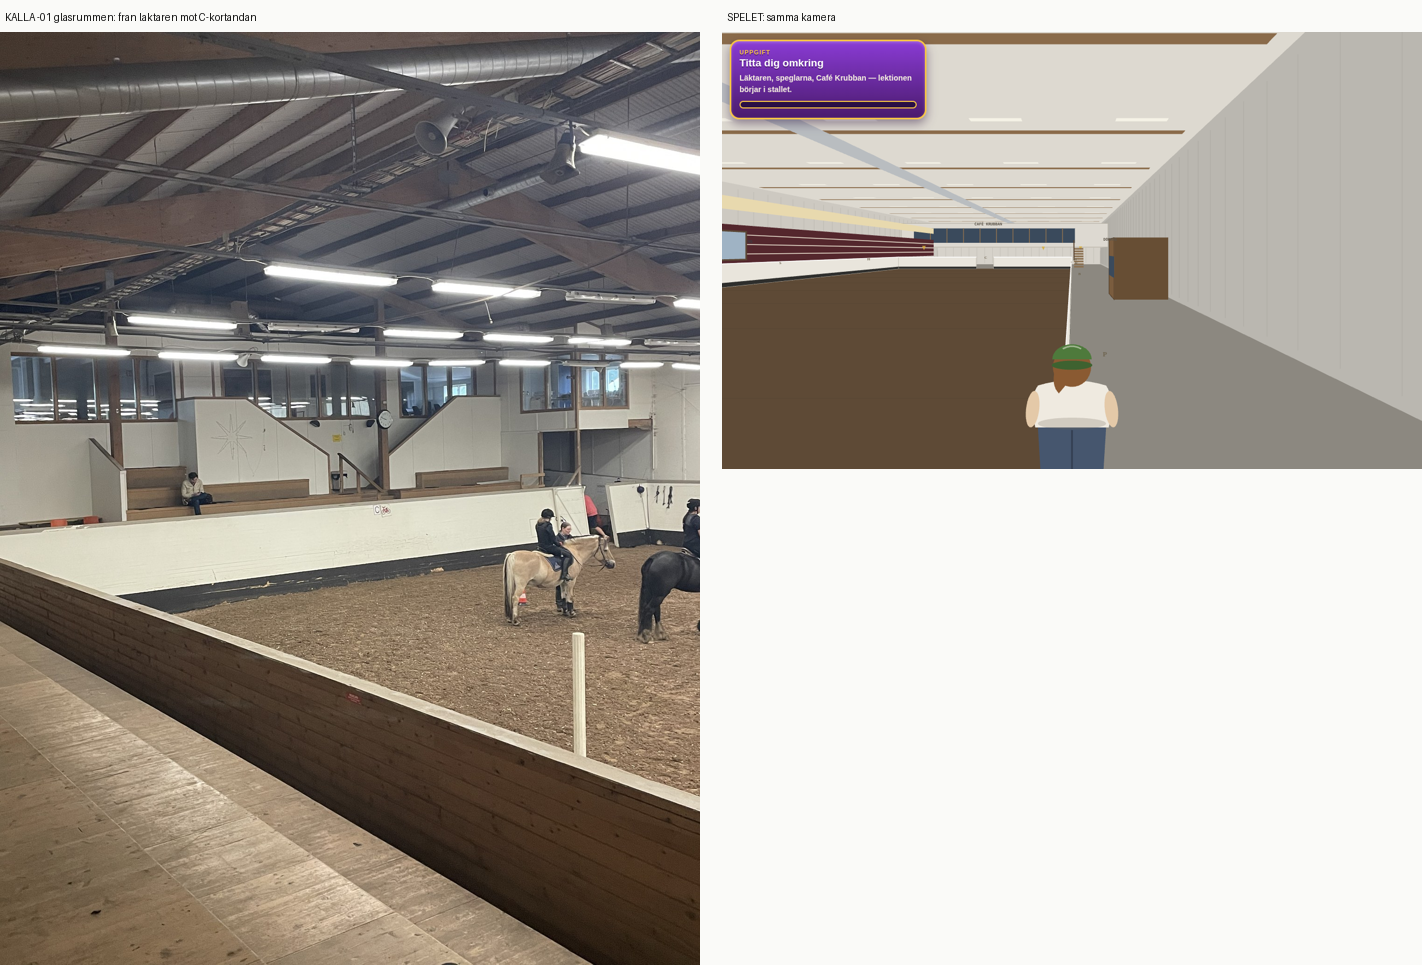
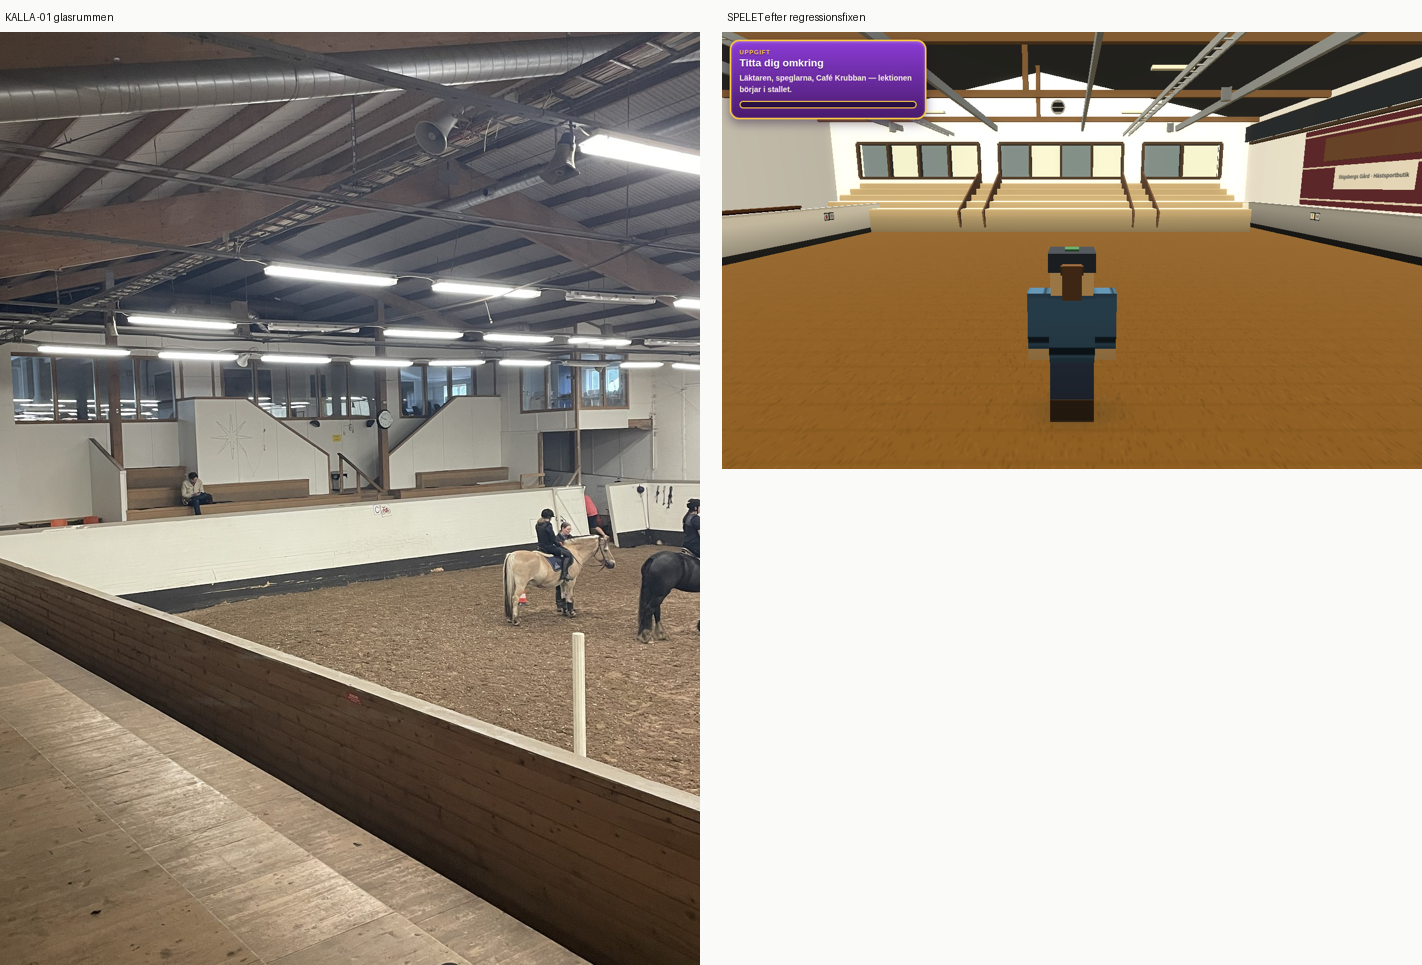
Halva ridhusinteriören byggdes aldrig — min egen regression, nu rättad
RÄTTELSE av vad jag rapporterade förra passet. Jag skrev att kortändans
geometri "hamnar någon annanstans än datan anger". Det var fel, och
slutsatsen byggde på ett trasigt prov.

Magentaprovet som gav "810 pixlar uppe i vänstra hörnet" mätte inte min
geometri utan den LILA UPPGIFT-RUTAN i HUD:en, vars ljusare partier passerar
filtret r>150, b>150, g<110. Ett omtag med grönt mätte spelarens keps. Båda
gav exakt samma antal pixlar oavsett kameravinkel, vilket borde ha avslöjat
dem direkt — en yta i världen kan inte ge lika många pixlar åt två håll.

Den riktiga orsaken kom fram genom att logga ALLA konsolrader:

  warning: 3D-vandring misslyckades: ReferenceError: L is not defined
      at v3dRidhus

`L` deklareras inne i läktarens sektionsloop. När jag byggde om läktaren till
ett däck lät jag domarbåsets block läsa L.dackZ, men det ligger UTANFÖR
loopen. Undantaget fångas av spelet och loggas som en VARNING, så allt efter
båsblocket byggdes aldrig: kortändans block, glasbandet och kortändans klocka.

Mätbart: ridhusinne byggde 6 statiska objekt med felet, 33 utan. Regressionen
kom med mitt eget läktarpass och stod kvar genom flera commits — alla
skärmdumpar jag tog av ridhuset däremellan visade en femtedel av geometrin.

Åtgärdat: golv läser R.laktare.dackZ. Kortändans block med sockel, de två
trapporna, det segmenterade glasbandet med karmar och djup, och kortändans
klocka syns nu alla från referenskameran. Bevisbilderna är omgjorda.
[…]

diff --git a/src/varld3d.js b/src/varld3d.js
@@ -1325,7 +1325,13 @@ function v3dRidhus(lagg,opp){
      Båset ligger nu vid E (husets y = 32, se DRESSYRBOKSTAVER). Måtten är
      `[ASSUMPTION]`; det verifierade är att båset är mörkt trä, att det
      står upphöjt, att trappan har träräcken och att skylten finns. ── */
-  {const D=R.domarbas, dy=D.y, golv=L.dackZ;
+  /* `golv` LÄSER R.laktare direkt. Det stod `L.dackZ`, men `L` deklareras
+     inne i sektionsloopen ovan och är slut här — det kastade
+     `ReferenceError: L is not defined`, som fångades och loggades som en
+     varning ("3D-vandring misslyckades"). Följden var att ALLT efter
+     båsblocket i v3dRidhus aldrig byggdes: kortändans block, glasbandet och
+     klockan. Det förklarar hela punkt 3 och 4 i reviewn. */
+  {const D=R.domarbas, dy=D.y, golv=R.laktare.dackZ;
    /* Den låga upphöjda nivån båset står på — indexet kallar den en låg,
       upphöjd trä-/läktarnivå, och sittstegen fortsätter åt sidan. */
    lak.lada(D.b+1.6,golv,D.b+1.2,"#8A6A44",M4.translation(D.x,golv/2,dy));
@@ -1366,7 +1372,7 @@ function v3dRidhus(lagg,opp){
   /* Exit-skylten över båsets öppning, och klockan vid den centrala
      passagen — MOTSÄGELSE 4 respektive 3. Båda ligger utanför trä-
      texturen: en grön skylt och en vit urtavla ska inte ha ådring. */
-  {const sk=new Bygge(), D=R.domarbas, golv=L.dackZ;
+  {const sk=new Bygge(), D=R.domarbas, golv=R.laktare.dackZ;
    if(D.exit){
      sk.lada(0.05,0.26,0.72,"#1E7A3C",
        M4.translation(D.x-D.b/2-0.05,golv+D.h+0.30,D.y));

diff --git a/references/buildings/ridhus/INTERIOR-MATRIS.md b/references/buildings/ridhus/INTERIOR-MATRIS.md
@@ -268,7 +268,50 @@ som nu stämmer.
 
 # Pass mot de fyra synliga mismatcharna
 
-## Punkt 3 · kortändans block — DIAGNOS, delvis åtgärdad, KVARSTÅR
+## Punkt 3 och 4 · ORSAKEN VAR MIN EGEN REGRESSION — RESOLVED
+
+Jag rapporterade först att blockets "geometri hamnar någon annanstans än
+datan anger". **Det var fel, och slutsatsen byggde på ett trasigt prov.**
+
+Magentaprovet som gav "810 pixlar uppe i vänstra hörnet" mätte inte min
+geometri — det mätte **den lila UPPGIFT-rutan i HUD:en**, vars ljusare
+partier råkar passera filtret r>150, b>150, g<110. Ett omtag med grönt
+mätte i stället **spelarens keps**. Två falska positiva i rad, och båda gav
+samma svar oavsett kameravinkel, vilket borde ha avslöjat dem direkt: en
+yta i världen kan inte ge exakt lika många pixlar åt två håll.
+
+Den riktiga orsaken hittades genom att logga ALLA konsolrader:
+
+```
+warning: 3D-vandring misslyckades: ReferenceError: L is not defined
+    at v3dRidhus (...)
+```
+
+`L` deklareras inne i läktarens sektionsloop. När jag byggde om läktaren
+till ett däck lät jag domarbåsets block läsa `L.dackZ` — men det ligger
+UTANFÖR loopen. Undantaget FÅNGAS av spelet och loggas som en varning, så
+allt efter båsblocket i `v3dRidhus` byggdes aldrig: kortändans block,
+glasbandet, kortändans klocka.
+
+Mätbart: `ridhusinne` byggde **6 statiska objekt med felet, 33 utan**.
+
+Regressionen kom med mitt eget läktarpass och stod kvar genom flera
+commits. Alla skärmdumpar jag tog av ridhuset däremellan visade en scen där
+en femtedel av geometrin fanns.
+
+**Åtgärdat.** `golv` läser `R.laktare.dackZ` direkt. Kortändans block med
+sockel, de två trapporna, det segmenterade glasbandet med karmar och djup,
+och kortändans klocka syns nu alla från referenskameran. `RESOLVED`.
+
+**Verktyget som saknades:** `tools/webbkoll.mjs`. Mina QA-skript lyssnade
+bara på `pageerror` och console-rader av typen "error"; ett fångat undantag
+loggas som VARNING och passerade som grönt. Den nya kollen räknar alla
+nivåer, kräver att varje scen bygger objekt alls, och är falsifierad genom
+att felet återinförts.
+
+## Punkt 3 · den ursprungliga ocklusionsdiagnosen står kvar
+
+
 
 Reviewn bad om diagnos före åtgärd. Den gav två fynd, det andra viktigare
 än det första.
@@ -280,19 +323,8 @@ bara den översta raden över sargen — 0,25 m på fjorton meters håll.
 `-01` visar flera rader över sargkrönet, så blocket står nu på en **sockel**
 på 0,80 m: totalt 2,40 m, tre rader över sargen. `DERIVED` ur fotot.
 
-**Fynd 2 — blocket renderas inte där datan säger.** Sockeln räckte inte.
-Ett magentatest på blockets egna delar hittade bara **810 pixlar uppe i
-bildens vänstra hörn**, inte den yta blocket borde täcka rakt fram. En
-rakt-på-vy från banans mitt mot kortändan (`k-mitt`) visar sarg, panelvägg
-och hinderbommar — **inget block, inget glasband, ingen klocka**.
-
-Blockets data säger hall-y 0,4–4,8, x 1,8–23,2. Kameran stod mitt för det.
-Geometrin hamnar alltså någon annanstans än datan anger. **Det är ett
-renderingsfel, inte ett synlighetsproblem**, och det förklarar varför både
-höjningen och sockeln var verkningslösa.
-
-`KNOWN MISMATCH` — kvarstår. Nästa steg är att spåra transformen för
-`kortanda`-blocket, inte att ändra fler mått.
+**Fynd 2 var däremot fel** och är rättat ovan: blocket syntes inte därför
+att det aldrig byggdes, inte därför att det låg fel.
 
 **Sidofynd, oavgjort:** kortändan vid hall-y ≈ 2 renderar bokstaven **A** på
 sargen, medan `DRESSYRBOKSTAVER` lägger A på ban-lokal (10, 60) och C på
